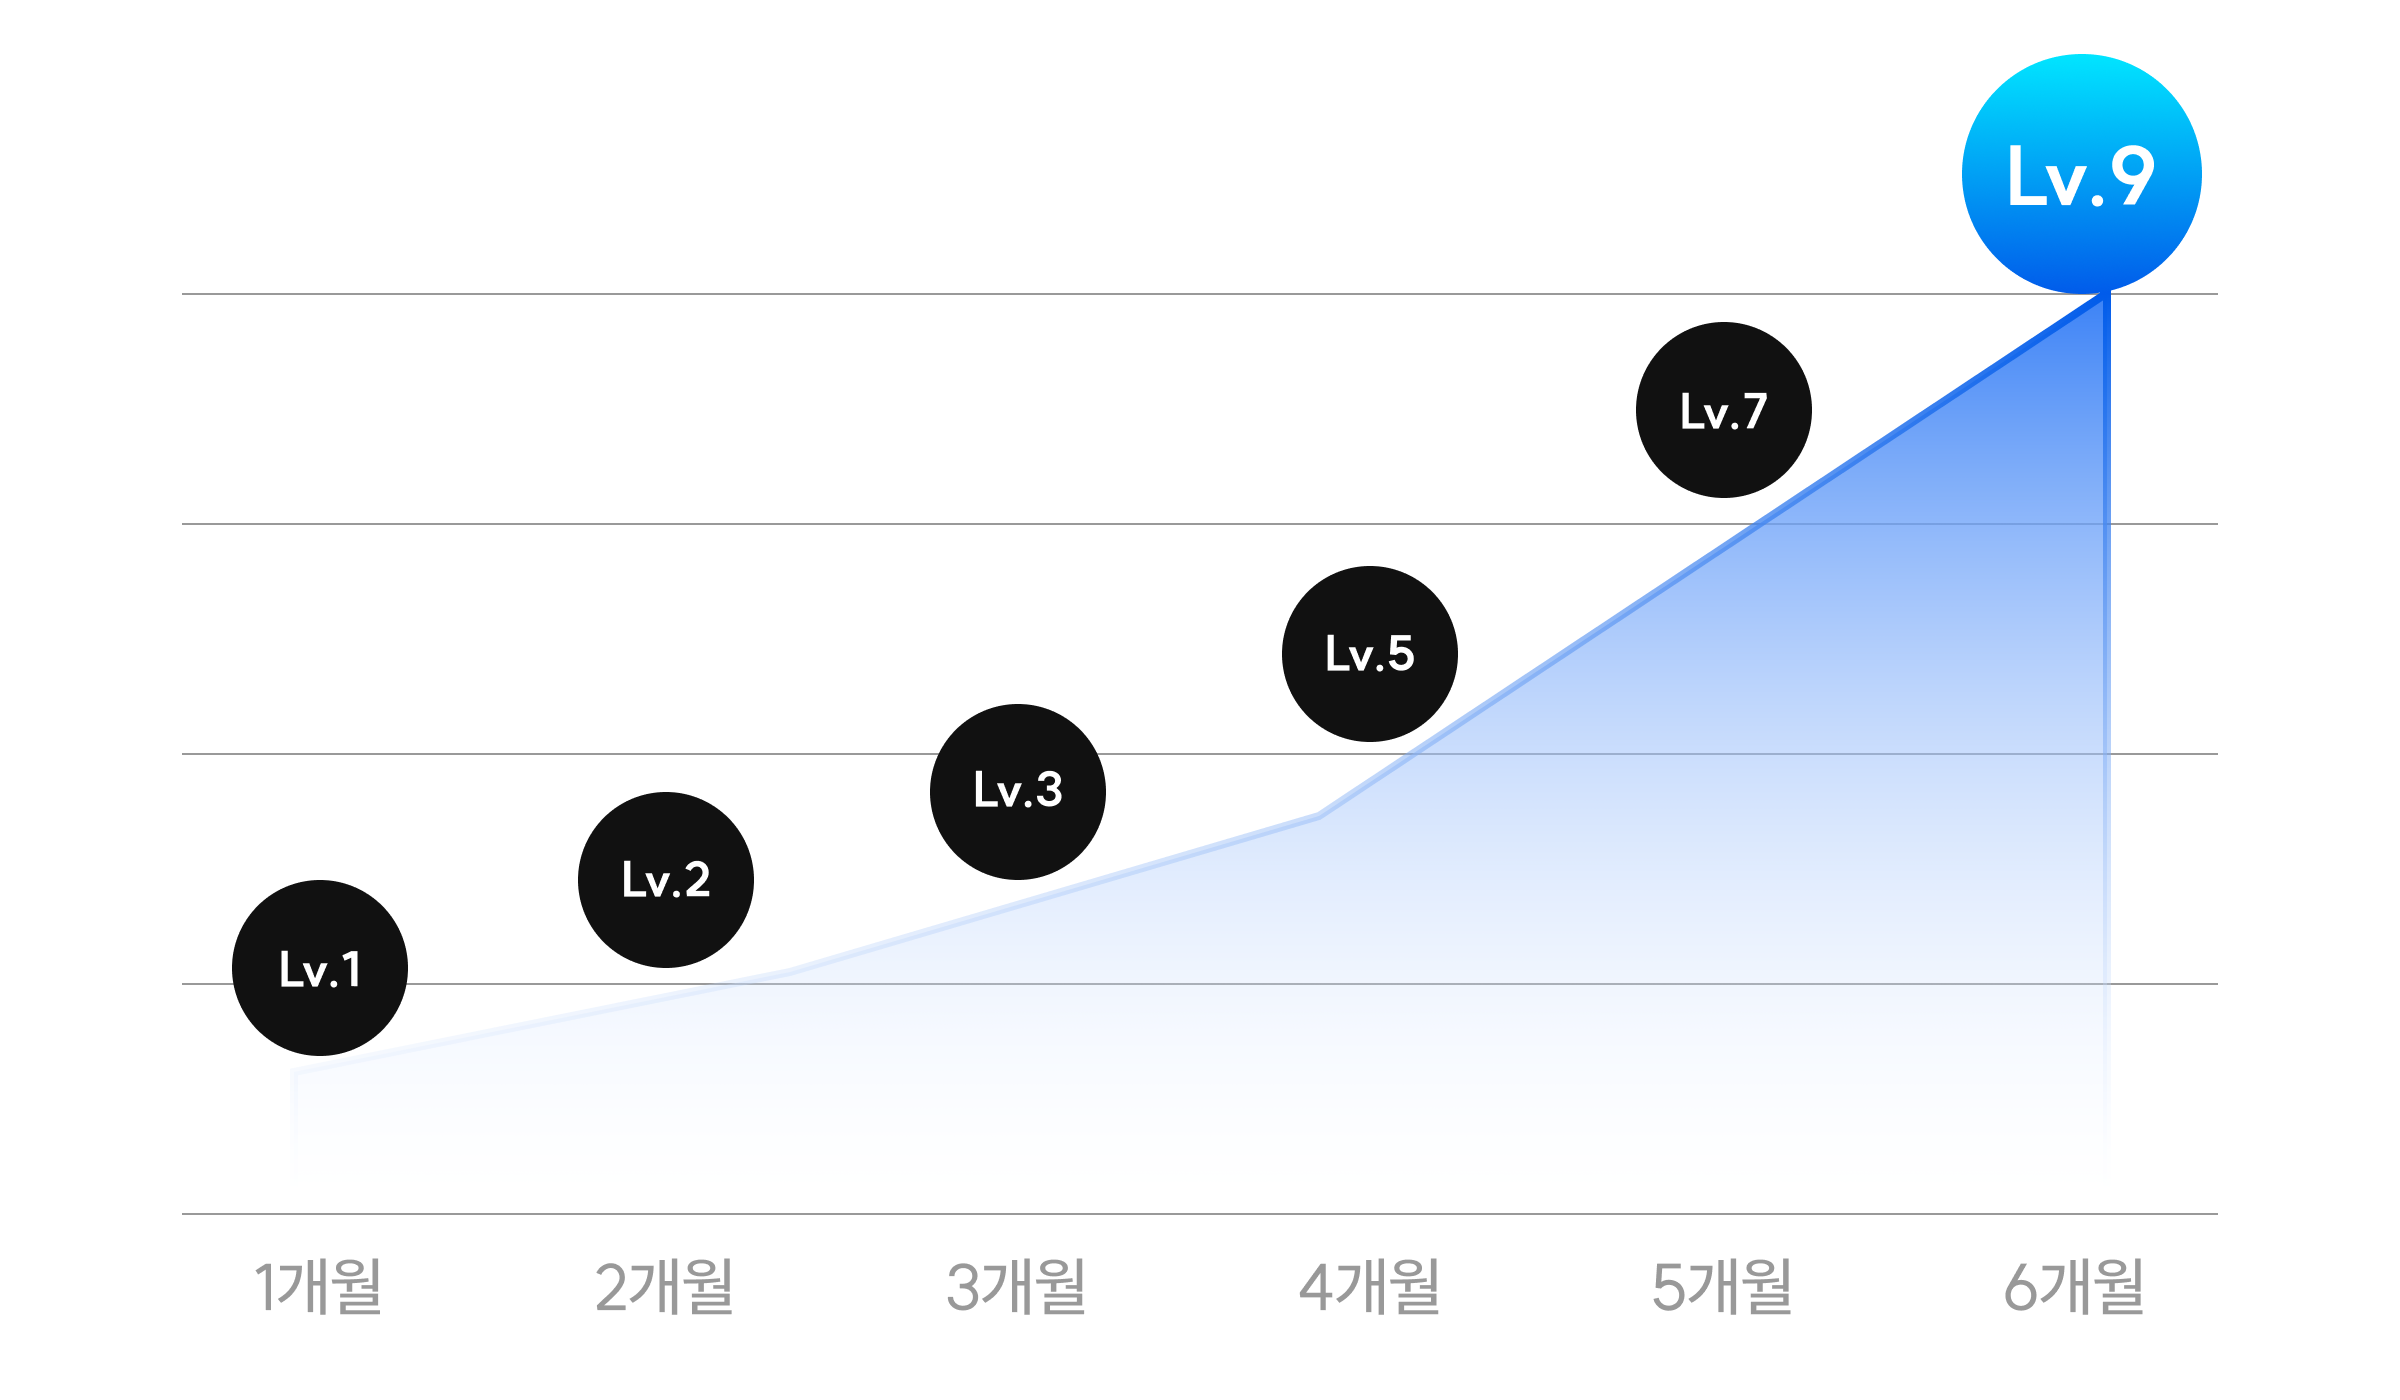
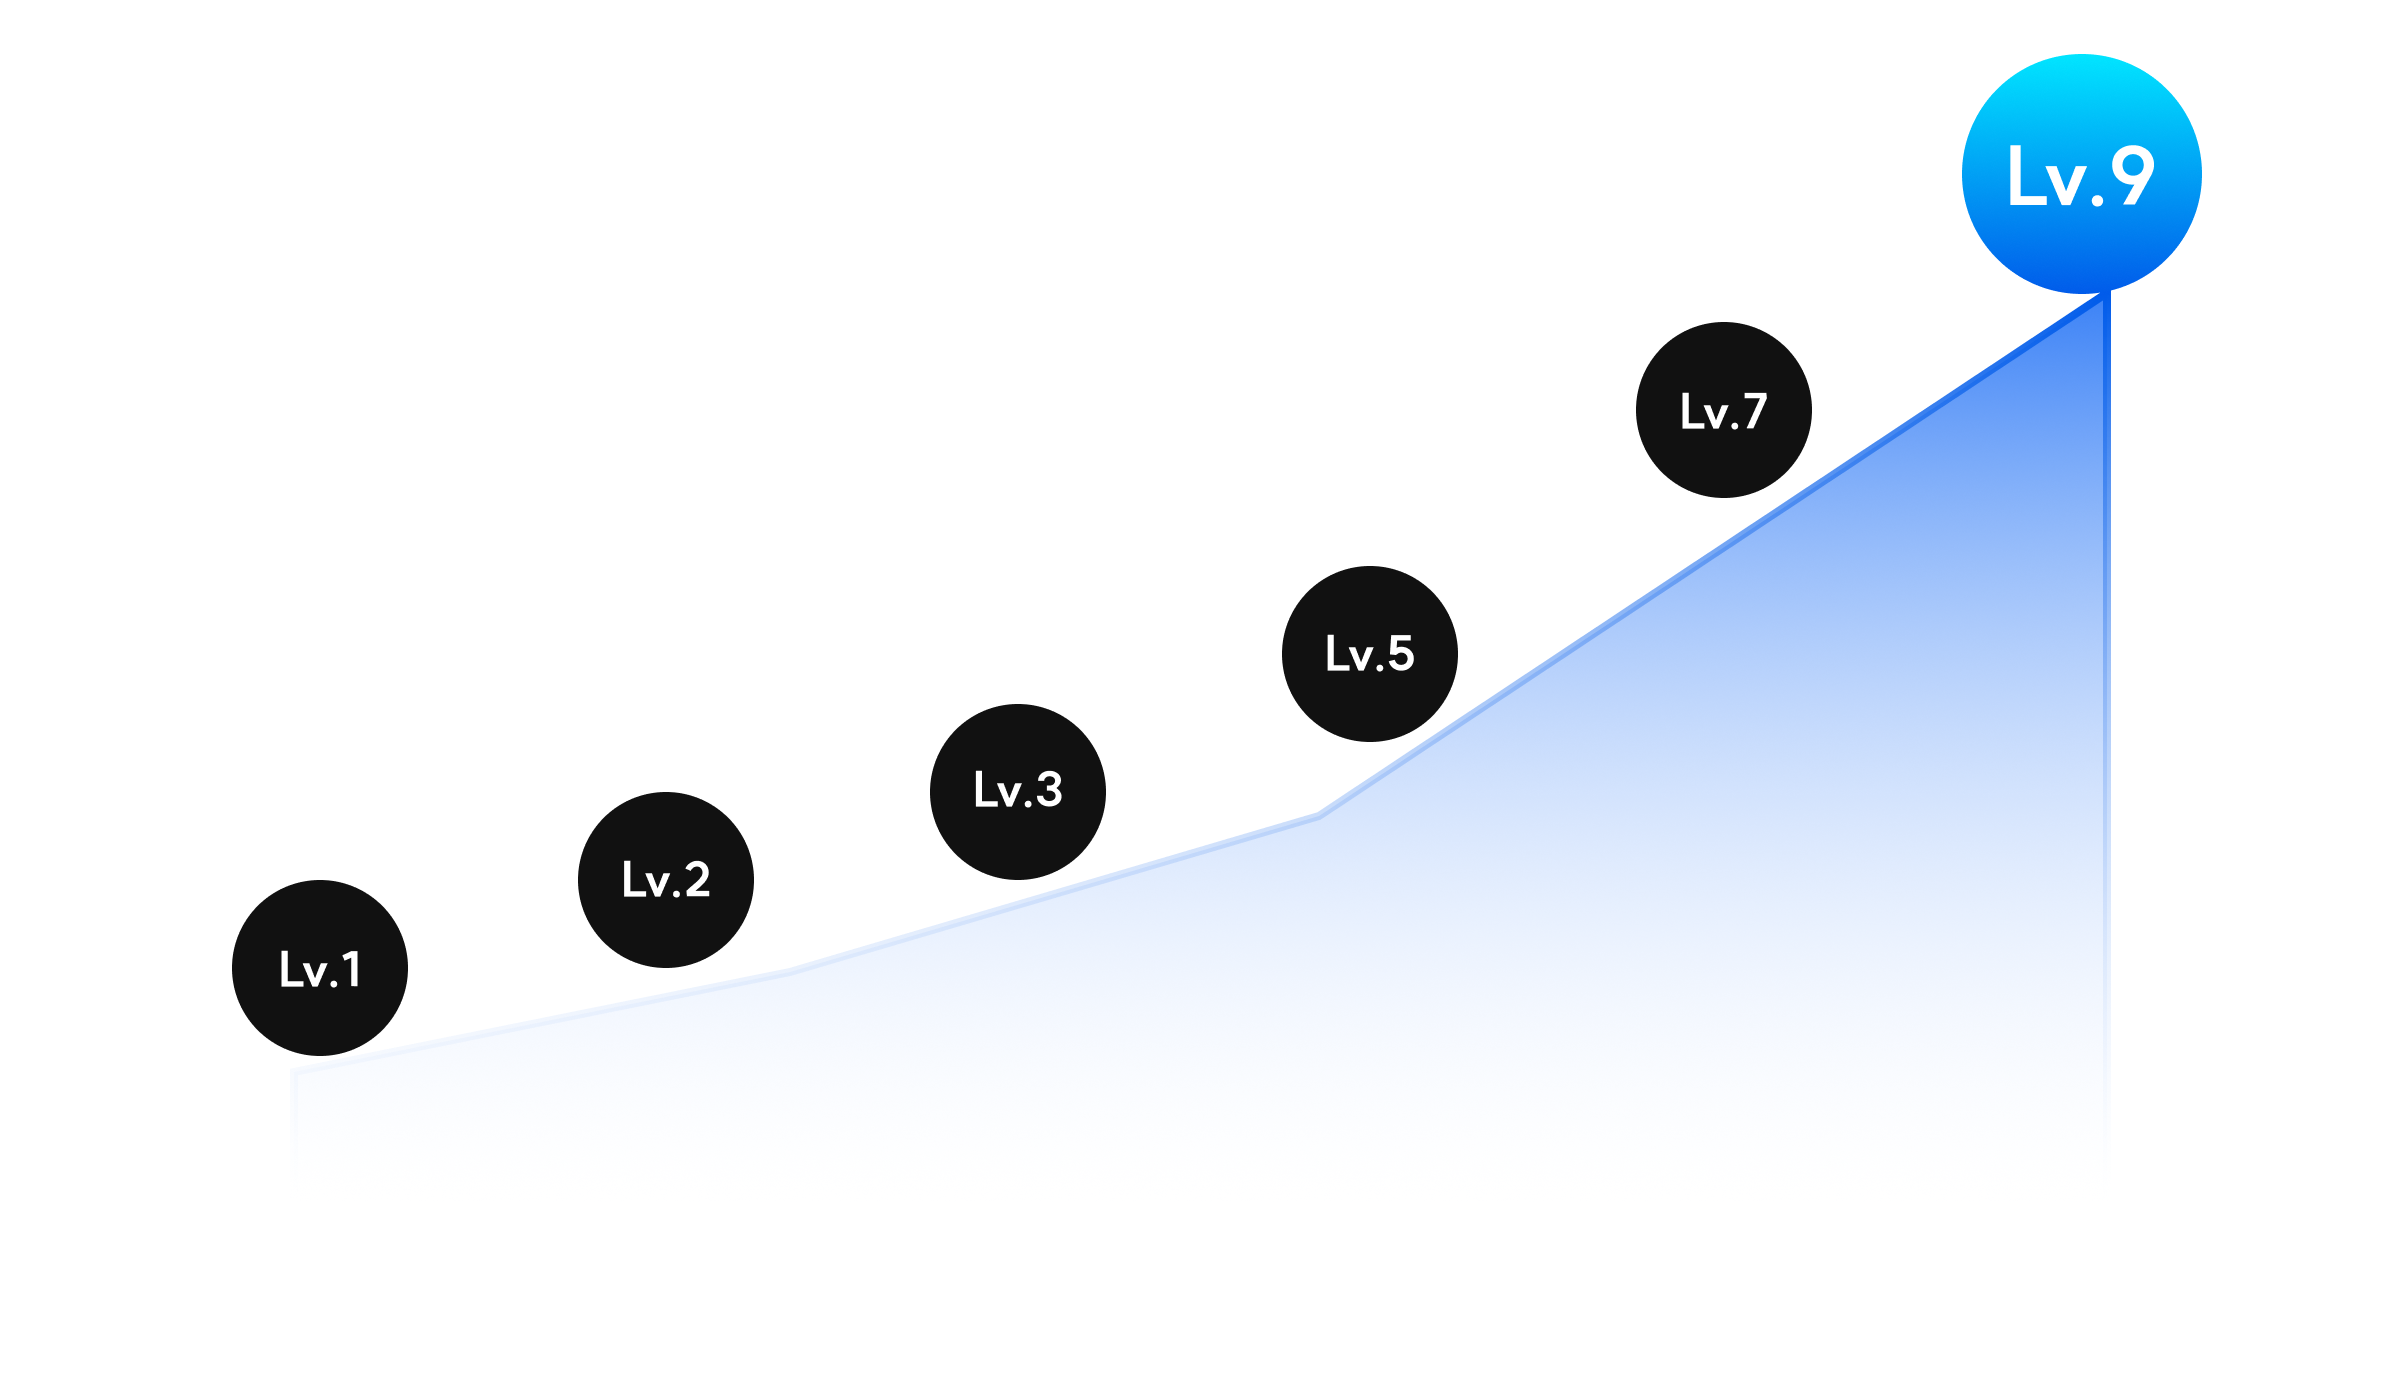
feedback update 1204

diff --git a/page12.html b/page12.html
@@ -185,35 +185,35 @@
         <div class="inner">
             <div class="item">
                 <div>
-                    <div class="badge">심화교재 특징 01</div>
-                    <h3>핵심 영역 심층 학습</h3>
-                    <p class="p1">영발음, 영작, 스토리텔링 등 선택 집중</p>
+                    <div class="badge">특화교재  특징 01</div>
+                    <h3>현장 중심</h3>
+                    <p class="p1">업무·면접·학술 등<span class="enter"></span> 상황별 맞춤 영어</p>
                 </div>
-                <img src="./img/img_section_19_05.png" srcset="./img/img_section_19_01.png 2x" alt="">
+                <img src="./img/img_section_19_09.png" srcset="./img/img_section_19_09.png 2x" alt="">
             </div>
             <div class="item">
                 <div>
-                    <div class="badge">심화교재 특징 02</div>
-                    <h3>정확성과 완성도 강화</h3>
-                    <p class="p1">작은 부분까지 놓치지 않는 세밀한 학습</p>
+                    <div class="badge">특화교재  특징 02</div>
+                    <h3>실전 활용</h3>
+                    <p class="p1">대화, 롤플레이,<span class="enter"></span> 케이스 스터디로 실습 강화</p>
                 </div>
-                <img src="./img/img_section_19_06.png" srcset="./img/img_section_19_02.png 2x" alt="">
+                <img src="./img/img_section_19_10.png" srcset="./img/img_section_19_10.png 2x" alt="">
             </div>
             <div class="item">
                 <div>
-                    <div class="badge">심화교재 특징 03</div>
-                    <h3>단계적 훈련</h3>
-                    <p class="p1">기본 > 응용 > 숙련의<span class="enter"></span> 체계적인 학습 설계</p>
+                    <div class="badge">특화교재  특징 03</div>
+                    <h3>심화 학습</h3>
+                    <p class="p1">기본기를 넘어 한 단계 더 높은<span class="enter"></span> 표현력과 전문성</p>
                 </div>
-                <img src="./img/img_section_19_07.png" srcset="./img/img_section_19_013png 2x" alt="">
+                <img src="./img/img_section_19_11.png" srcset="./img/img_section_19_11.png 2x" alt="">
             </div>
             <div class="item">
                 <div>
-                    <div class="badge">심화교재 특징 04</div>
-                    <h3>실력 확장</h3>
-                    <p class="p1">정규과정에서 다진 기반에<span class="enter"></span> 더 높은 영어 능력 확보</p>
+                    <div class="badge">특화교재  특징 04</div>
+                    <h3>맞춤 설계</h3>
+                    <p class="p1">다양한 분야의 요구를 반영한<span class="enter"></span> 체계적인 구성</p>
                 </div>
-                <img src="./img/img_section_19_08.png" srcset="./img/img_section_19_04.png 2x" alt="">
+                <img src="./img/img_section_19_12.png" srcset="./img/img_section_19_12.png 2x" alt="">
             </div>
         </div>
         <div class="btnWrap" style="margin: 0;">

diff --git a/css/style.css b/css/style.css
@@ -911,6 +911,7 @@ p.p2 {
   padding: 0;
 }
 .section-05 .slick-dots li button:before {
+  content: "";
   position: static;
   width: 16px;
   height: 16px;
@@ -3052,8 +3053,59 @@ footer.junior .info {
   margin-bottom: 80px;
 }
 .section-21 img {
+  object-fit: cover;
+  width: 100%;
+  height: 100%;
+  position: absolute;
+  top: 0;
+  left: 0;
+}
+.section-21 .graphImgWrap {
+  position: relative;
+  aspect-ratio: 1200/700;
   width: 100%;
   border-radius: 16px;
+  overflow: hidden;
+}
+.section-21 .graphImgWrap .blind {
+  width: 100%;
+  height: 100%;
+  position: absolute;
+  top: 0;
+  right: 0;
+  background-color: #fff;
+}
+.section-21 .graphImgWrap [class*=obj] {
+  opacity: 0;
+  transition-duration: 0.3s;
+}
+.section-21 .graphImgWrap.aos-animate [class*=obj] {
+  opacity: 1;
+}
+.section-21 .graphImgWrap.aos-animate .obj1 {
+  transition-delay: 0.4s;
+}
+.section-21 .graphImgWrap.aos-animate .obj2 {
+  transition-delay: 0.5s;
+}
+.section-21 .graphImgWrap.aos-animate .obj3 {
+  transition-delay: 0.6s;
+}
+.section-21 .graphImgWrap.aos-animate .obj4 {
+  transition-delay: 0.7s;
+}
+.section-21 .graphImgWrap.aos-animate .obj5 {
+  transition-delay: 0.8s;
+}
+.section-21 .graphImgWrap.aos-animate .obj6 {
+  transition-delay: 0.9s;
+}
+.section-21 .graphImgWrap.aos-animate .obj7 {
+  transition-delay: 1s;
+}
+.section-21 .graphImgWrap.aos-animate .blind {
+  width: 0;
+  transition: 0.9s 0.5s;
 }
 
 @media screen and (max-width: 1024px) {
@@ -3071,7 +3123,7 @@ footer.junior .info {
     font-size: 3.611vw;
     margin-bottom: 24px;
   }
-  .section-21 img {
+  .section-21 .graphImgWrap {
     border-radius: 4px;
   }
 }
@@ -3143,6 +3195,22 @@ footer.junior .info {
 .section-23 img {
   width: 100%;
   margin: 80px 0 120px;
+}
+.section-23 .cloudLayerWrap {
+  position: relative;
+  opacity: 1 !important;
+}
+.section-23 .cloudLayerWrap .cloudLayer {
+  height: 48%;
+  width: 100%;
+  left: 0;
+  bottom: 0;
+  position: absolute;
+  background: linear-gradient(180deg, rgba(255, 255, 255, 0) 0%, #FFF 4.04%);
+}
+.section-23 .cloudLayerWrap.aos-animate .cloudLayer {
+  height: 0;
+  transition: 0.7s 0.3s;
 }
 
 @media screen and (max-width: 1024px) {

diff --git a/css/style.scss b/css/style.scss
@@ -985,6 +985,7 @@ p.p2 {
 			padding: 0;
 		}
 		button:before {
+			content: '';
 			position: static;
 			width: 16px;
 			height: 16px;
@@ -3180,8 +3181,45 @@ footer {
 		margin-bottom: 80px;
 	}
 	img {
+		object-fit: cover;
+		width: 100%;
+		height: 100%;
+		position: absolute;
+		top: 0;
+		left: 0;
+	}
+	.graphImgWrap {
+		position: relative;
+		aspect-ratio: 1200 / 700;
 		width: 100%;
 		border-radius: 16px;
+		overflow: hidden;
+		.blind {
+			width: 100%;
+			height: 100%;
+			position: absolute;
+			top: 0;
+			right: 0;
+			background-color: #fff;
+		}
+		[class*="obj"] {
+			opacity: 0;
+			transition-duration: 0.3s;
+		}
+		&.aos-animate {
+			[class*="obj"] {opacity: 1;}
+			.obj1 {transition-delay: 0.4s}
+			.obj2 {transition-delay: 0.5s}
+			.obj3 {transition-delay: 0.6s}
+			.obj4 {transition-delay: 0.7s}
+			.obj5 {transition-delay: 0.8s}
+			.obj6 {transition-delay: 0.9s}
+			.obj7 {transition-delay: 1s}
+			.blind {
+				width: 0;
+				transition: 0.9s 0.5s;
+			}
+		}
 	}
 }
 @media screen and (max-width:1024px) {
@@ -3198,7 +3236,7 @@ footer {
 			font-size: $fs13;
 			margin-bottom: 24px;
 		}
-		img {
+		.graphImgWrap {
 			border-radius: 4px;
 		}
 	}
@@ -3273,6 +3311,24 @@ footer {
 	img {
 		width: 100%;
 		margin: 80px 0 120px;
+	}
+	.cloudLayerWrap {
+		position: relative;
+		opacity: 1 !important;
+		.cloudLayer {
+			height: 48%;
+			width: 100%;
+			left: 0;
+			bottom: 0;
+			position: absolute;
+			background: linear-gradient(180deg, rgba(255, 255, 255, 0.00) 0%, #FFF 4.04%);
+		}
+		&.aos-animate {
+			.cloudLayer {
+				height: 0;
+				transition: 0.7s 0.3s;
+			}
+		}
 	}
 }
 @media screen and (max-width:1024px) {

diff --git a/page16.html b/page16.html
@@ -184,7 +184,18 @@
                 전략적이고 체계적인 시스템, 교육 전문가와 함께할 때<br/>
                 빠른 실력향상은 물론, 소요 시간을 줄일 수 있습니다
             </p>
-            <img class="item" src="./img/img_section_21_graph.png" srcset="./img/img_section_21_graph.png 2x" alt="img">
+            <div class="graphImgWrap" data-aos="fade" data-aos-duration="500" data-aos-offset="0" data-aos-delay="0"  data-aos-easing="linear">
+                <img class="item" src="./img/img_section_21_graph_layer01.svg" alt="img">
+                <img class="item" src="./img/img_section_21_graph_layer02.svg" alt="img">
+                <div class="blind"></div>
+                <img class="item obj1" src="./img/img_section_21_graph_layer03.svg" alt="img">
+                <img class="item obj2" src="./img/img_section_21_graph_layer04.svg" alt="img">
+                <img class="item obj3" src="./img/img_section_21_graph_layer05.svg" alt="img">
+                <img class="item obj4" src="./img/img_section_21_graph_layer06.svg" alt="img">
+                <img class="item obj5" src="./img/img_section_21_graph_layer07.svg" alt="img">
+                <img class="item obj6" src="./img/img_section_21_graph_layer08.svg" alt="img">
+                <img class="item obj7" src="./img/img_section_21_graph_layer09.svg" alt="img">
+            </div>
         </div>
     </div>
 

diff --git a/page10.html b/page10.html
@@ -193,7 +193,7 @@
                     <h3>실용 중심 회화</h3>
                     <p class="p1">회화, 말하기 등<span class="enter"></span> 바로 활용 가능한 표현 학습</p>
                 </div>
-                <img src="./img/img_section_19_02.png" srcset="./img/img_section_19_02.png 2x" alt="">
+                <img src="./img/img_section_19_03.png" srcset="./img/img_section_19_013png 2x" alt="">
             </div>
             <div class="item">
                 <div>
@@ -201,7 +201,7 @@
                     <h3>균형 잡힌 구성</h3>
                     <p class="p1">듣기, 말하기, 읽기, 쓰기의<span class="enter"></span> 전 영역을 아우름</p>
                 </div>
-                <img src="./img/img_section_19_03.png" srcset="./img/img_section_19_013png 2x" alt="">
+                <img src="./img/img_section_19_02.png" srcset="./img/img_section_19_02.png 2x" alt="">
             </div>
             <div class="item">
                 <div>

diff --git a/page17.html b/page17.html
@@ -193,7 +193,10 @@
                     전화·화상 영어 수업, 예산 맞춤형 플랜, <br/>
                     임직원 레벨테스트 등 빠른 시작을 도와드립니다
                 </p>
-                <img class="item" src="./img/img_advice_mo.png" srcset="./img/img_advice_mo.png 2x" alt="img">
+                <div class="cloudLayerWrap" data-aos="fade" data-aos-duration="0" data-aos-offset="500" data-aos-delay="0"  data-aos-easing="linear">
+                    <img class="item" src="./img/img_advice_mo.png" srcset="./img/img_advice_mo.png 2x" alt="img">
+                    <div class="cloudLayer"></div>
+                </div>
             </div>
             
 

diff --git a/page11.html b/page11.html
@@ -184,7 +184,7 @@
                 <div>
                     <div class="badge">심화교재 특징 01</div>
                     <h3>핵심 영역 심층 학습</h3>
-                    <p class="p1">영발음, 영작, 스토리텔링 등 선택 집중</p>
+                    <p class="p1">발음, 영작, 스토리텔링 등 선택 집중</p>
                 </div>
                 <img src="./img/img_section_19_05.png" srcset="./img/img_section_19_01.png 2x" alt="">
             </div>
